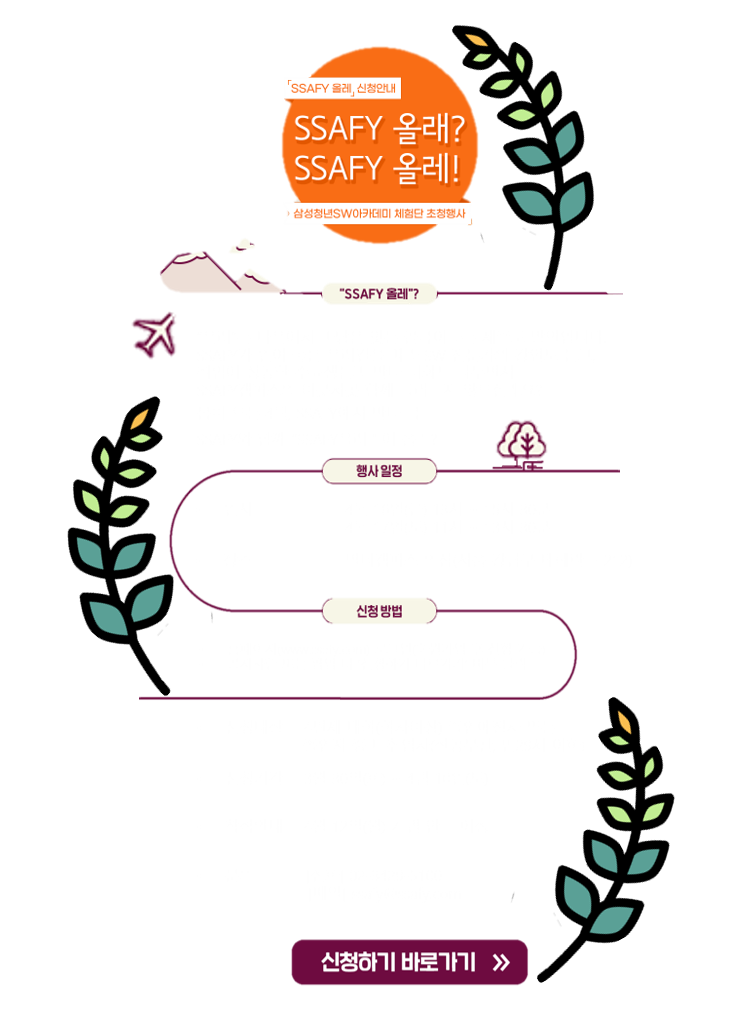
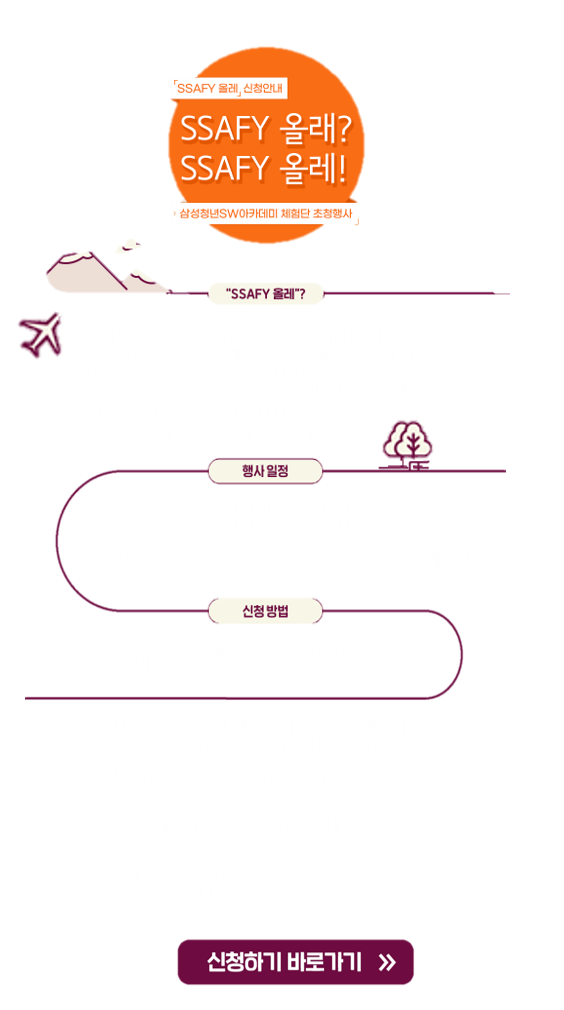
update S04P23D102-102 : 필요없는 이미지삭제

diff --git a/frontend/src/views/Cam.vue b/frontend/src/views/Cam.vue
@@ -60,7 +60,7 @@
             </div>
             <v-spacer></v-spacer>
             <div class="productBox col-2" style="padding-top: 80px;">
-                <img src="../assets/images/banner03.png" alt="배너이미지" style="height:700px;" />
+                <img src="../assets/images/banner.png" alt="배너이미지" style="height:700px;" />
             </div>
         </v-row>
         <!-- <v-btn @click="goCamPayment">결제화면보기</v-btn> -->
